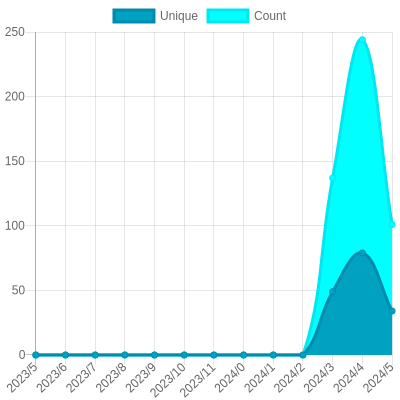
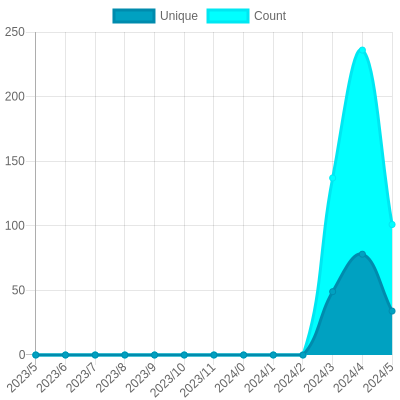
Update views

diff --git a/readme/550124420/year.md b/readme/550124420/year.md
@@ -34,10 +34,10 @@
 			<code>2023/5/1</code>
 		</td>
 		<td>
-			<code>79</code>
+			<code>78</code>
 		</td>
 		<td>
-			<code>244</code>
+			<code>236</code>
 		</td>
 	</tr>
 	<tr>
@@ -164,7 +164,7 @@
 </table>
 
 </details>
-<small><i>Last updated on 2023/6/11 6:12 AM UTC</i></small>
+<small><i>Last updated on 2023/6/11 12:18 PM UTC</i></small>
 
 ## ✂Copy and 📋 Paste
 ### SVG Badge

diff --git a/README.md b/README.md
@@ -245,7 +245,7 @@ The project created and maintained by [gayanvoice](https://github.com/gayanvoice
 	</tr>
 </table>
 
-<small><i>Last updated on 2023/6/11 6:13 AM UTC</i></small>
+<small><i>Last updated on 2023/6/11 12:19 PM UTC</i></small>
 
 ## ✂Copy and 📋 Paste
 ### Total Views Badge

diff --git a/readme/533325287/year.md b/readme/533325287/year.md
@@ -164,7 +164,7 @@
 </table>
 
 </details>
-<small><i>Last updated on 2023/6/11 6:12 AM UTC</i></small>
+<small><i>Last updated on 2023/6/11 12:17 PM UTC</i></small>
 
 ## ✂Copy and 📋 Paste
 ### SVG Badge

diff --git a/readme/538171767/year.md b/readme/538171767/year.md
@@ -164,7 +164,7 @@
 </table>
 
 </details>
-<small><i>Last updated on 2023/6/11 6:12 AM UTC</i></small>
+<small><i>Last updated on 2023/6/11 12:19 PM UTC</i></small>
 
 ## ✂Copy and 📋 Paste
 ### SVG Badge

diff --git a/readme/574194437/year.md b/readme/574194437/year.md
@@ -164,7 +164,7 @@
 </table>
 
 </details>
-<small><i>Last updated on 2023/6/11 6:11 AM UTC</i></small>
+<small><i>Last updated on 2023/6/11 12:17 PM UTC</i></small>
 
 ## ✂Copy and 📋 Paste
 ### SVG Badge

diff --git a/readme/577464192/year.md b/readme/577464192/year.md
@@ -164,7 +164,7 @@
 </table>
 
 </details>
-<small><i>Last updated on 2023/6/11 6:11 AM UTC</i></small>
+<small><i>Last updated on 2023/6/11 12:17 PM UTC</i></small>
 
 ## ✂Copy and 📋 Paste
 ### SVG Badge

diff --git a/readme/582324454/year.md b/readme/582324454/year.md
@@ -164,7 +164,7 @@
 </table>
 
 </details>
-<small><i>Last updated on 2023/6/11 6:11 AM UTC</i></small>
+<small><i>Last updated on 2023/6/11 12:17 PM UTC</i></small>
 
 ## ✂Copy and 📋 Paste
 ### SVG Badge

diff --git a/readme/583343420/year.md b/readme/583343420/year.md
@@ -164,7 +164,7 @@
 </table>
 
 </details>
-<small><i>Last updated on 2023/6/11 6:11 AM UTC</i></small>
+<small><i>Last updated on 2023/6/11 12:17 PM UTC</i></small>
 
 ## ✂Copy and 📋 Paste
 ### SVG Badge

diff --git a/readme/619231643/year.md b/readme/619231643/year.md
@@ -164,7 +164,7 @@
 </table>
 
 </details>
-<small><i>Last updated on 2023/6/11 6:12 AM UTC</i></small>
+<small><i>Last updated on 2023/6/11 12:18 PM UTC</i></small>
 
 ## ✂Copy and 📋 Paste
 ### SVG Badge

diff --git a/readme/625286651/year.md b/readme/625286651/year.md
@@ -164,7 +164,7 @@
 </table>
 
 </details>
-<small><i>Last updated on 2023/6/11 6:12 AM UTC</i></small>
+<small><i>Last updated on 2023/6/11 12:18 PM UTC</i></small>
 
 ## ✂Copy and 📋 Paste
 ### SVG Badge

diff --git a/readme/630928588/year.md b/readme/630928588/year.md
@@ -164,7 +164,7 @@
 </table>
 
 </details>
-<small><i>Last updated on 2023/6/11 6:12 AM UTC</i></small>
+<small><i>Last updated on 2023/6/11 12:18 PM UTC</i></small>
 
 ## ✂Copy and 📋 Paste
 ### SVG Badge

diff --git a/readme/631052544/year.md b/readme/631052544/year.md
@@ -164,7 +164,7 @@
 </table>
 
 </details>
-<small><i>Last updated on 2023/6/11 6:11 AM UTC</i></small>
+<small><i>Last updated on 2023/6/11 12:17 PM UTC</i></small>
 
 ## ✂Copy and 📋 Paste
 ### SVG Badge
